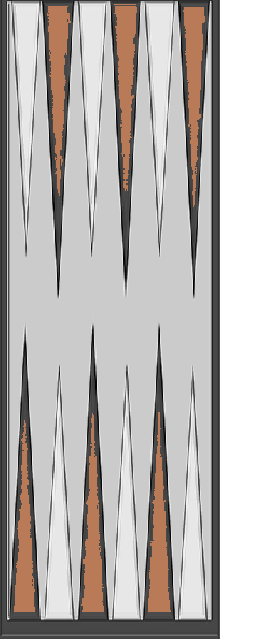
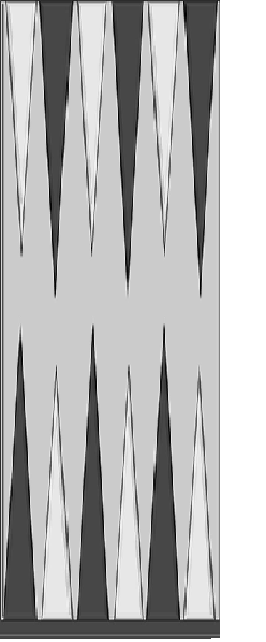
Chip images instead of java shapes

Changed region(s): [[0.391, 0.0, 0.8421, 0.9657], [0.0, 0.0, 0.391, 0.9657]]

diff --git a/app/src/main/java/FirstGUI/Controller/Cntrllr.java b/app/src/main/java/FirstGUI/Controller/Cntrllr.java
@@ -8,8 +8,10 @@ import javafx.fxml.FXML;
 import javafx.scene.control.Alert;
 import javafx.scene.control.Button;
 import javafx.scene.control.Label;
+import javafx.scene.image.Image;
 import javafx.scene.layout.GridPane;
 import javafx.scene.paint.Color;
+import javafx.scene.paint.ImagePattern;
 import javafx.scene.shape.Circle;
 import javafx.stage.Stage;
 import java.util.List;
@@ -86,7 +88,10 @@ public class Cntrllr implements ModelListener {
                     /* for chip in column */
                     for (int k = 0; k < numberOfChips; k++) {
                         /*Рисуем круги фишек*/
-                        quartersOfField()[i].add(new Circle(10, colorOfChips.normalizedColor), j, 14 - k);
+                        quartersOfField()[i].add(new Circle(15, colorOfChips.image), j, 14 - k);
+//                        Circle circle = new Circle(15);
+//                        circle.setFill(new ImagePattern(new Image("black1.png")));
+//                        quartersOfField()[i].add(circle, j, 14 - k);
                     }
                     /*Рисуем зелёные круги для кнопок предложения хода если ещё не выбрана никакая колонка фишек.
                      *По нажатию упомянутой кнопки индекс её колонки будет запомнен в поле selectedColumn. */

diff --git a/app/src/main/java/FirstGUI/Model/ChipColor.java b/app/src/main/java/FirstGUI/Model/ChipColor.java
@@ -1,14 +1,16 @@
 package FirstGUI.Model;
 
+import javafx.scene.image.Image;
 import javafx.scene.paint.Color;
+import javafx.scene.paint.ImagePattern;
 
 public enum ChipColor {
-    BLACK(new Color(0.0,0.0,0.0,1.0)),
-    WHITE(new Color(1.0,1.0,1.0,1.0));
+    BLACK(new ImagePattern(new Image("black1.png"))),
+    WHITE(new ImagePattern(new Image("white1.png")));
 
-    ChipColor(Color color){
-        this.normalizedColor = color;
+    ChipColor(ImagePattern image){
+        this.image = image;
     }
 
-    public final Color normalizedColor;
+    public final ImagePattern image;
 }

diff --git a/app/src/main/java/FirstGUI/Model/GroupOfChips.java b/app/src/main/java/FirstGUI/Model/GroupOfChips.java
@@ -26,8 +26,6 @@ public class GroupOfChips {
 
     public ChipColor getColor() { return color; }
 
-    public Color getNormalizedColor() { return color.normalizedColor; }
-
     public void decreaseQuantity(){
         quantity -= 1;
         if (quantity==0){
